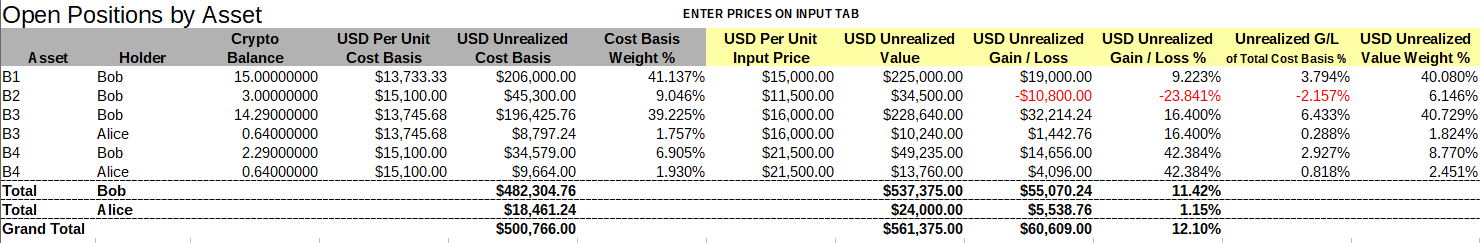
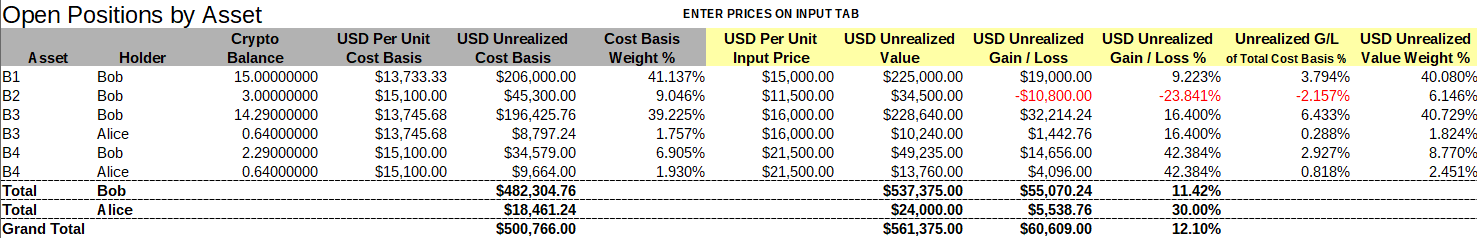
correct column index and update screenshots.

Changed region(s): [[0.0, 0.0294, 1.0, 1.0], [0.0623, 0.5294, 0.0934, 0.5882], [0.9966, 0.9706, 1.0, 1.0]]

diff --git a/src/rp2/plugin/report/us/open_positions.py b/src/rp2/plugin/report/us/open_positions.py
@@ -280,7 +280,7 @@ class Generator(AbstractODSGenerator):
                     asset_sheet,
                     asset_row_index,
                     9,
-                    f"=(H{asset_row_index+1}-E{asset_row_index+1})/E{last_data_index+1}",
+                    f"=(H{asset_row_index+1}-E{asset_row_index+1})/E{asset_row_index+1}",
                     visual_style="bold_border",
                     data_style="percent",
                 )
